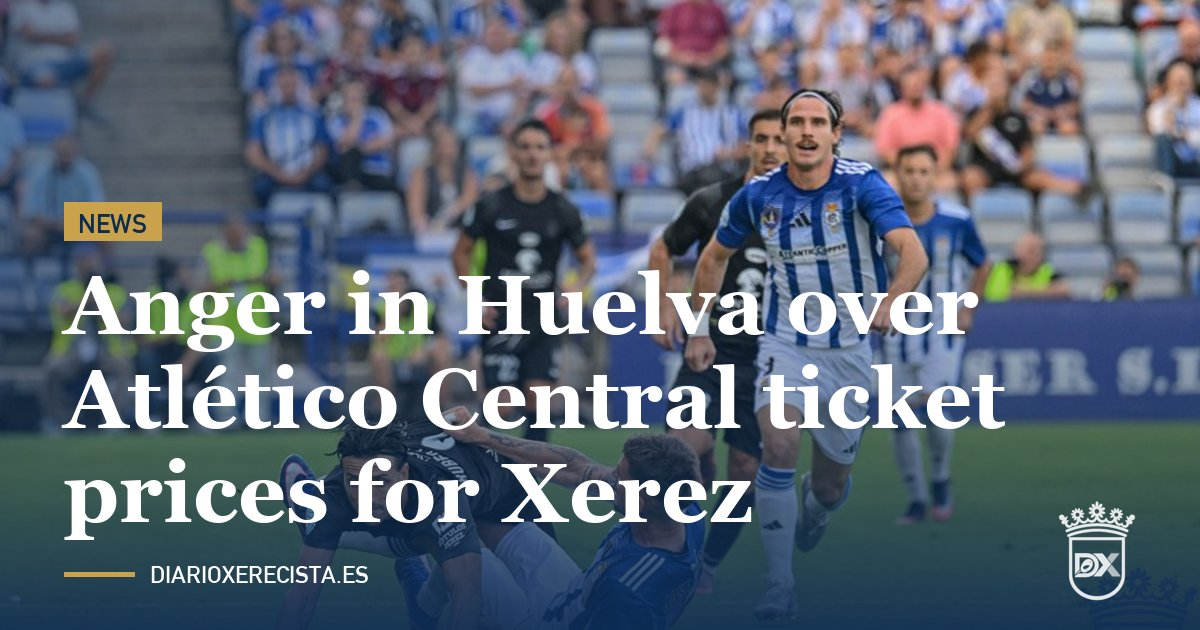
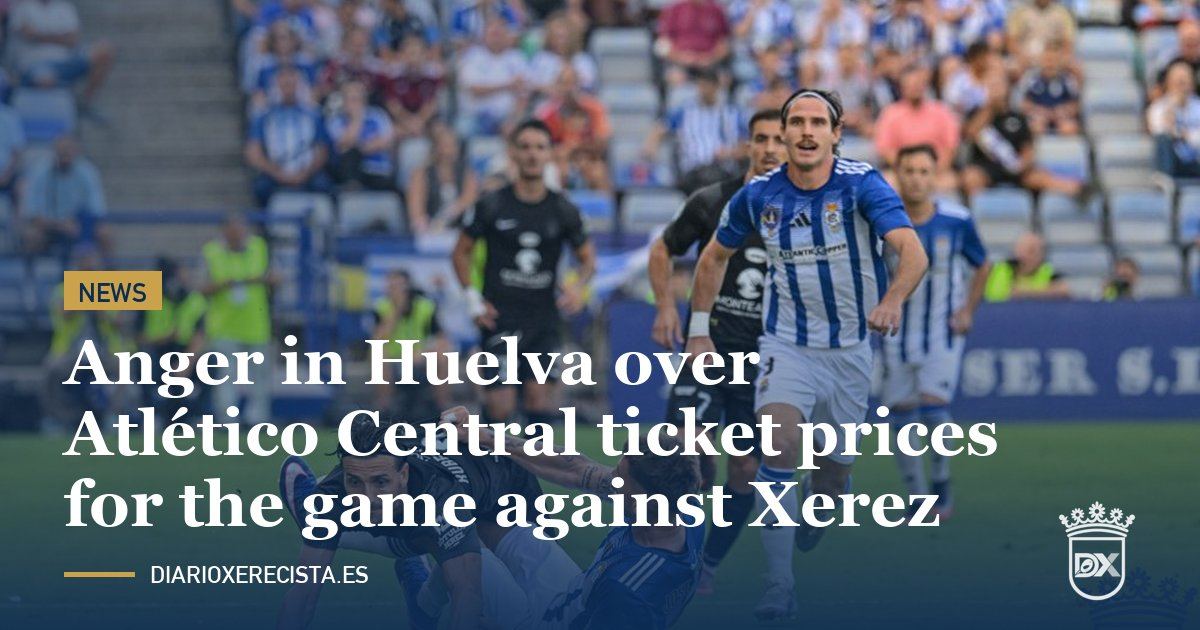
art138: titular 'Indignación en Huelva por el precio de las entradas del Atlético Central contra el Xerez' (ES+EN, imagen de redes rehecha; slug sin cambios)

Changed region(s): [[0.0308, 0.4222, 0.8325, 0.8746], [0.0308, 0.3016, 0.1542, 0.3921]]

diff --git a/noticias/articulos/2026-11/indignacion-en-huelva-por-el-precio-de-las-entradas-del-atletico-central-para-el-xerez/index.html b/noticias/articulos/2026-11/indignacion-en-huelva-por-el-precio-de-las-entradas-del-atletico-central-para-el-xerez/index.html
@@ -3,7 +3,7 @@
 <head>
 <meta charset="UTF-8">
 <meta name="viewport" content="width=device-width, initial-scale=1.0">
-<title>Indignación en Huelva por el precio de las entradas del Atlético Central para el Xerez | Diario Xerecista</title>
+<title>Indignación en Huelva por el precio de las entradas del Atlético Central contra el Xerez | Diario Xerecista</title>
 <meta name="description" content="El Atlético Central cobrará 11 euros a la afición del Xerez para el partido del domingo. Al recreativismo le pidió 20 en la primera jornada de liga y, tras las quejas, lo dejó en 15.">
 <meta name="robots" content="index, follow, max-snippet:-1, max-image-preview:large">
 <link rel="canonical" href="https://www.diarioxerecista.es/noticias/articulos/2026-11/indignacion-en-huelva-por-el-precio-de-las-entradas-del-atletico-central-para-el-xerez/">
@@ -13,7 +13,7 @@
 
 <meta property="og:type" content="article">
 <meta property="og:site_name" content="Diario Xerecista">
-<meta property="og:title" content="Indignación en Huelva por el precio de las entradas del Atlético Central para el Xerez">
+<meta property="og:title" content="Indignación en Huelva por el precio de las entradas del Atlético Central contra el Xerez">
 <meta property="og:description" content="El Atlético Central cobrará 11 euros a la afición del Xerez para el partido del domingo. Al recreativismo le pidió 20 en la primera jornada de liga y, tras las quejas, lo dejó en 15.">
 <meta property="og:url" content="https://www.diarioxerecista.es/noticias/articulos/2026-11/indignacion-en-huelva-por-el-precio-de-las-entradas-del-atletico-central-para-el-xerez/">
 <meta property="og:image" content="https://www.diarioxerecista.es/fotos/redes/art138-es.jpg">
@@ -22,7 +22,7 @@
 <meta property="og:locale" content="es_ES">
 
 <meta name="twitter:card" content="summary_large_image">
-<meta name="twitter:title" content="Indignación en Huelva por el precio de las entradas del Atlético Central para el Xerez">
+<meta name="twitter:title" content="Indignación en Huelva por el precio de las entradas del Atlético Central contra el Xerez">
 <meta name="twitter:description" content="El Atlético Central cobrará 11 euros a la afición del Xerez para el partido del domingo. Al recreativismo le pidió 20 en la primera jornada de liga y, tras las quejas, lo dejó en 15.">
 <meta name="twitter:image" content="https://www.diarioxerecista.es/fotos/redes/art138-es.jpg">
 
@@ -35,7 +35,7 @@
 {
   "@context": "https://schema.org",
   "@type": "NewsArticle",
-  "headline": "Indignación en Huelva por el precio de las entradas del Atlético Central para el Xerez",
+  "headline": "Indignación en Huelva por el precio de las entradas del Atlético Central contra el Xerez",
   "description": "El Atlético Central cobrará 11 euros a la afición del Xerez para el partido del domingo. Al recreativismo le pidió 20 en la primera jornada de liga y, tras las quejas, lo dejó en 15.",
   "image": [
     "https://www.diarioxerecista.es/fotos/publicadas/recreativo-xerez-j4-disputa-cesped.jpg"
@@ -78,7 +78,7 @@
 
   <main class="n-article">
     <span class="eyebrow">Xerez CD · Entradas</span>
-    <h1>Indignación en Huelva por el precio de las entradas del Atlético Central para el Xerez</h1>
+    <h1>Indignación en Huelva por el precio de las entradas del Atlético Central contra el Xerez</h1>
 
     <div class="n-photo">
       <img src="../../../../fotos/publicadas/recreativo-xerez-j4-disputa-cesped.jpg" alt="Disputa de un balón en el Recreativo de Huelva - Xerez CD de la jornada 4 en el Nuevo Colombino" loading="lazy">
@@ -99,7 +99,7 @@
 
     <div class="n-meta-row">
       <span class="byline">Redacción — 17 de noviembre de 2026</span>
-      <a href="https://x.com/intent/tweet?text=Indignaci%C3%B3n%20en%20Huelva%20por%20el%20precio%20de%20las%20entradas%20del%20Atl%C3%A9tico%20Central%20para%20el%20Xerez%0A%0Ahttps%3A%2F%2Fwww.diarioxerecista.es%2Fnoticias%2Farticulos%2F2026-11%2Findignacion-en-huelva-por-el-precio-de-las-entradas-del-atletico-central-para-el-xerez%2F%0A%0A%23XerezCD" target="_blank" rel="noopener" class="share-x-btn">Compartir en 𝕏</a>
+      <a href="https://x.com/intent/tweet?text=Indignaci%C3%B3n%20en%20Huelva%20por%20el%20precio%20de%20las%20entradas%20del%20Atl%C3%A9tico%20Central%20contra%20el%20Xerez%0A%0Ahttps%3A%2F%2Fwww.diarioxerecista.es%2Fnoticias%2Farticulos%2F2026-11%2Findignacion-en-huelva-por-el-precio-de-las-entradas-del-atletico-central-para-el-xerez%2F%0A%0A%23XerezCD" target="_blank" rel="noopener" class="share-x-btn">Compartir en 𝕏</a>
     </div>
 
     <a class="back-link" href="../../../../en/noticias/articulos/2026-11/anger-in-huelva-over-atletico-central-ticket-prices-for-xerez/" style="display:block;margin-bottom:10px;">🇬🇧 Read in English</a>

diff --git a/en/noticias/articulos/2026-11/anger-in-huelva-over-atletico-central-ticket-prices-for-xerez/index.html b/en/noticias/articulos/2026-11/anger-in-huelva-over-atletico-central-ticket-prices-for-xerez/index.html
@@ -3,7 +3,7 @@
 <head>
 <meta charset="UTF-8">
 <meta name="viewport" content="width=device-width, initial-scale=1.0">
-<title>Anger in Huelva over Atlético Central ticket prices for Xerez | Diario Xerecista</title>
+<title>Anger in Huelva over Atlético Central ticket prices for the game against Xerez | Diario Xerecista</title>
 <meta name="description" content="Atlético Central will charge Xerez fans 11 euros for Sunday's game. They asked Recreativo supporters for 20 on the opening matchday of the league and, after complaints, settled on 15.">
 <meta name="robots" content="index, follow, max-snippet:-1, max-image-preview:large">
 <link rel="canonical" href="https://www.diarioxerecista.es/en/noticias/articulos/2026-11/anger-in-huelva-over-atletico-central-ticket-prices-for-xerez/">
@@ -13,7 +13,7 @@
 
 <meta property="og:type" content="article">
 <meta property="og:site_name" content="Diario Xerecista">
-<meta property="og:title" content="Anger in Huelva over Atlético Central ticket prices for Xerez">
+<meta property="og:title" content="Anger in Huelva over Atlético Central ticket prices for the game against Xerez">
 <meta property="og:description" content="Atlético Central will charge Xerez fans 11 euros for Sunday's game. They asked Recreativo supporters for 20 on the opening matchday of the league and, after complaints, settled on 15.">
 <meta property="og:url" content="https://www.diarioxerecista.es/en/noticias/articulos/2026-11/anger-in-huelva-over-atletico-central-ticket-prices-for-xerez/">
 <meta property="og:image" content="https://www.diarioxerecista.es/fotos/redes/art138-en.jpg">
@@ -22,7 +22,7 @@
 <meta property="og:locale" content="en_GB">
 
 <meta name="twitter:card" content="summary_large_image">
-<meta name="twitter:title" content="Anger in Huelva over Atlético Central ticket prices for Xerez">
+<meta name="twitter:title" content="Anger in Huelva over Atlético Central ticket prices for the game against Xerez">
 <meta name="twitter:description" content="Atlético Central will charge Xerez fans 11 euros for Sunday's game. They asked Recreativo supporters for 20 on the opening matchday of the league and, after complaints, settled on 15.">
 <meta name="twitter:image" content="https://www.diarioxerecista.es/fotos/redes/art138-en.jpg">
 
@@ -35,7 +35,7 @@
 {
   "@context": "https://schema.org",
   "@type": "NewsArticle",
-  "headline": "Anger in Huelva over Atlético Central ticket prices for Xerez",
+  "headline": "Anger in Huelva over Atlético Central ticket prices for the game against Xerez",
   "description": "Atlético Central will charge Xerez fans 11 euros for Sunday's game. They asked Recreativo supporters for 20 on the opening matchday of the league and, after complaints, settled on 15.",
   "image": [
     "https://www.diarioxerecista.es/fotos/publicadas/recreativo-xerez-j4-disputa-cesped.jpg"
@@ -78,7 +78,7 @@
 
   <main class="n-article">
     <span class="eyebrow">Xerez CD · Tickets</span>
-    <h1>Anger in Huelva over Atlético Central ticket prices for Xerez</h1>
+    <h1>Anger in Huelva over Atlético Central ticket prices for the game against Xerez</h1>
 
     <div class="n-photo">
       <img src="../../../../../fotos/publicadas/recreativo-xerez-j4-disputa-cesped.jpg" alt="A challenge for the ball in the Matchday 4 Recreativo de Huelva - Xerez CD game at the Nuevo Colombino" loading="lazy">
@@ -99,7 +99,7 @@
 
     <div class="n-meta-row">
       <span class="byline">Newsroom — 17 November 2026</span>
-      <a href="https://x.com/intent/tweet?text=Anger%20in%20Huelva%20over%20Atl%C3%A9tico%20Central%20ticket%20prices%20for%20Xerez%0A%0Ahttps%3A%2F%2Fwww.diarioxerecista.es%2Fen%2Fnoticias%2Farticulos%2F2026-11%2Fanger-in-huelva-over-atletico-central-ticket-prices-for-xerez%2F%0A%0A%23XerezCD" target="_blank" rel="noopener" class="share-x-btn">Share on 𝕏</a>
+      <a href="https://x.com/intent/tweet?text=Anger%20in%20Huelva%20over%20Atl%C3%A9tico%20Central%20ticket%20prices%20for%20the%20game%20against%20Xerez%0A%0Ahttps%3A%2F%2Fwww.diarioxerecista.es%2Fen%2Fnoticias%2Farticulos%2F2026-11%2Fanger-in-huelva-over-atletico-central-ticket-prices-for-xerez%2F%0A%0A%23XerezCD" target="_blank" rel="noopener" class="share-x-btn">Share on 𝕏</a>
     </div>
 
     <a class="back-link" href="../../../../../noticias/articulos/2026-11/indignacion-en-huelva-por-el-precio-de-las-entradas-del-atletico-central-para-el-xerez/" style="display:block;margin-bottom:10px;">🇪🇸 Leer en español</a>

diff --git a/index.html b/index.html
@@ -1657,7 +1657,7 @@
       <!-- generado dinámicamente por renderPortada(); hasta que carga se ven estos titulares, que también lee Google -->
       <!-- TITULARES-INICIO (no editar a mano: python3 -I scripts/titulares_portada.py) -->
       <article class="card"><span class="eyebrow">Xerez CD · Entradas</span><h4><a class="tit-link" href="/noticias/articulos/2026-11/el-xerez-agota-las-primeras-500-entradas-para-el-partido-ante-el-atletico-central-y-pone-a-la-venta-otras-500/">El Xerez agota las primeras 500 entradas para el partido ante el Atlético Central y pone a la venta otras 500</a></h4><p>La afición xerecista ha respondido en un solo día al primer paquete de localidades para el partido del domingo en Alcalá de Guadaíra.</p></article>
-      <article class="card"><span class="eyebrow">Xerez CD · Entradas</span><h4><a class="tit-link" href="/noticias/articulos/2026-11/indignacion-en-huelva-por-el-precio-de-las-entradas-del-atletico-central-para-el-xerez/">Indignación en Huelva por el precio de las entradas del Atlético Central para el Xerez</a></h4><p>El Atlético Central cobrará 11 euros a la afición del Xerez para el partido del domingo. Al recreativismo le pidió 20 en la primera jornada de liga y, tras las quejas, lo dejó en 15.</p></article>
+      <article class="card"><span class="eyebrow">Xerez CD · Entradas</span><h4><a class="tit-link" href="/noticias/articulos/2026-11/indignacion-en-huelva-por-el-precio-de-las-entradas-del-atletico-central-para-el-xerez/">Indignación en Huelva por el precio de las entradas del Atlético Central contra el Xerez</a></h4><p>El Atlético Central cobrará 11 euros a la afición del Xerez para el partido del domingo. Al recreativismo le pidió 20 en la primera jornada de liga y, tras las quejas, lo dejó en 15.</p></article>
       <article class="card"><span class="eyebrow">Xerez CD · Entradas</span><h4><a class="tit-link" href="/noticias/articulos/2026-11/el-xerez-recibe-500-entradas-a-11-euros-para-el-partido-en-el-campo-del-atletico-central/">El Xerez recibe 500 entradas a 11 euros para el partido en el campo del Atlético Central</a></h4><p>Los menores de 12 años entrarán gratis al partido del domingo, de la jornada 12 de Segunda RFEF, que empezará a las 12:00 en Alcalá de Guadaíra.</p></article>
       <article class="card"><span class="eyebrow">Opinión · Análisis</span><h4><a class="tit-link" href="/noticias/articulos/2026-11/insultos-machistas-en-el-pedro-garrido/">Insultos machistas en el Pedro Garrido</a></h4><p>Lo que se escuchó contra la jueza de línea en el Xerez CD - Antoniano no puede quedar en una anécdota del partido. Es una vergüenza, y el fútbol no puede seguir mirando hacia otro lado.</p></article>
       <article class="card"><span class="eyebrow">Xerez CD · Declaraciones de Abel Segovia</span><h4><a class="tit-link" href="/noticias/articulos/2026-11/abel-segovia-contento-con-el-crecimiento-del-equipo/">Abel Segovia, contento con el crecimiento del equipo</a></h4><p>El entrenador del Xerez CD pidió calma tras la cuarta victoria seguida, ante el Antoniano (2-0). Cree que el resultado se quedó corto y lamentó la primera amarilla de Moi, que acabó expulsado.</p></article>
